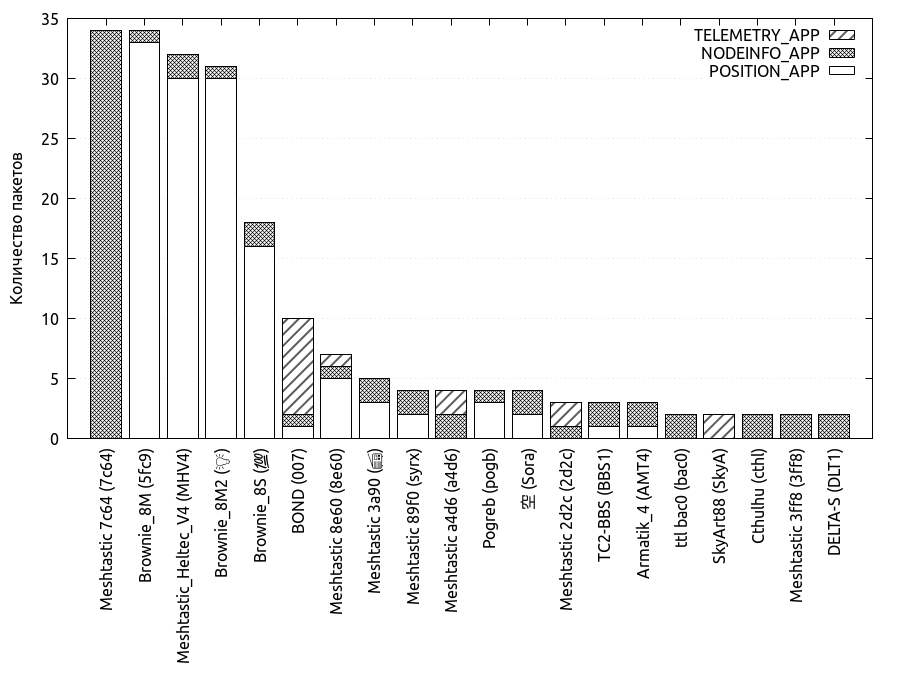
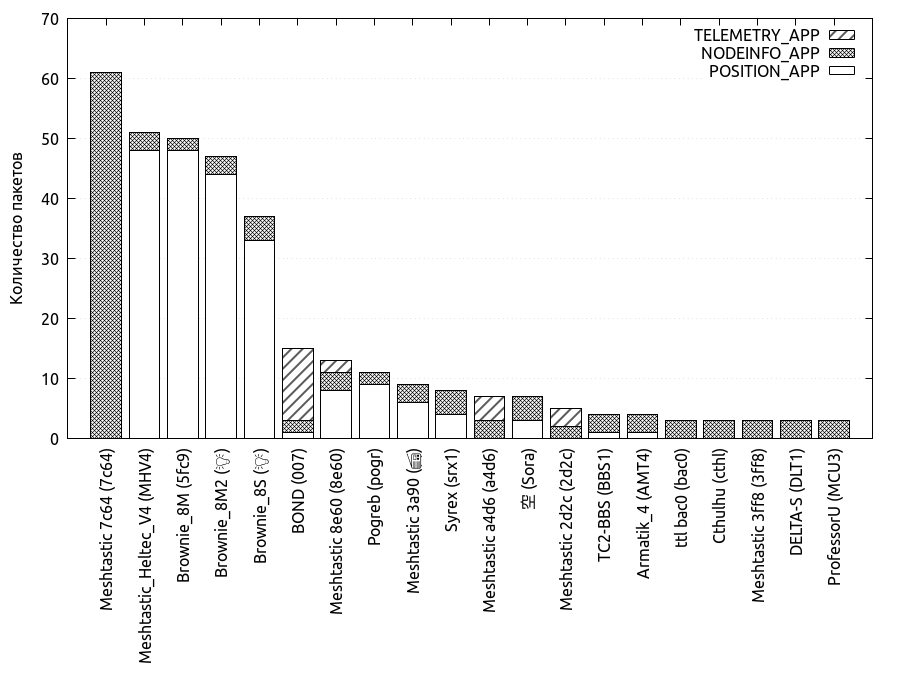
Update: 2026-05-10

diff --git a/spamers/2026-05-10/index.html b/spamers/2026-05-10/index.html
@@ -7,7 +7,7 @@
 <meta name="robots" content="index, follow">
 <title>2026-05-10 | dwr𝔣</title>
 <meta name="keywords" content="">
-<meta name="description" content="Услышано нод за сутки: 28">
+<meta name="description" content="Услышано нод за сутки: 29">
 <meta name="author" content="">
 <link rel="canonical" href="https://dwrf.ftp.sh/spamers/2026-05-10/">
 <link crossorigin="anonymous" href="/assets/css/stylesheet.6fa248c180ac4f9056a884e3b49e304390e0e4bc65ce5c291c0c637f6f2db58c.css" integrity="sha256-b6JIwYCsT5BWqITjtJ4wQ5Dg5LxlzlwpHAxjf28ttYw=" rel="preload stylesheet" as="style">
@@ -30,16 +30,16 @@
 </noscript><meta property="og:url" content="https://dwrf.ftp.sh/spamers/2026-05-10/">
   <meta property="og:site_name" content="dwr𝔣">
   <meta property="og:title" content="2026-05-10">
-  <meta property="og:description" content="Услышано нод за сутки: 28">
+  <meta property="og:description" content="Услышано нод за сутки: 29">
   <meta property="og:locale" content="ru_ru">
   <meta property="og:type" content="article">
     <meta property="article:section" content="spamers">
     <meta property="article:published_time" content="2026-05-10T00:00:00+00:00">
-    <meta property="article:modified_time" content="2026-05-10T05:55:03+03:00">
+    <meta property="article:modified_time" content="2026-05-10T09:31:41+03:00">
 
   <meta name="twitter:card" content="summary">
   <meta name="twitter:title" content="2026-05-10">
-  <meta name="twitter:description" content="Услышано нод за сутки: 28">
+  <meta name="twitter:description" content="Услышано нод за сутки: 29">
 
 
 <script type="application/ld+json">
@@ -68,15 +68,15 @@
   "@type": "BlogPosting",
   "headline": "2026-05-10",
   "name": "2026-05-10",
-  "description": "Услышано нод за сутки: 28",
+  "description": "Услышано нод за сутки: 29",
   "keywords": [
     
   ],
-  "articleBody": "\n# NodeName Position NodeInfo Telemetry 1 Meshtastic 7c64 (7c64) 0 34 0 2 Brownie_8M (5fc9) 33 1 0 3 Meshtastic_Heltec_V4 (MHV4) 30 2 0 4 Brownie_8M2 (💡) 30 1 0 5 Brownie_8S (💯) 16 2 0 6 BOND (007) 1 1 8 7 Meshtastic 8e60 (8e60) 5 1 1 8 Meshtastic 3a90 (📻) 3 2 0 9 Meshtastic 89f0 (syrx) 2 2 0 10 Meshtastic a4d6 (a4d6) 0 2 2 11 Pogreb (pogb) 3 1 0 12 空 (Sora) 2 2 0 13 Meshtastic 2d2c (2d2c) 0 1 2 14 TC2-BBS (BBS1) 1 2 0 15 Armatik_4 (AMT4) 1 2 0 16 ttl bac0 (bac0) 0 2 0 17 SkyArt88 (SkyA) 0 0 2 18 Cthulhu (cthl) 0 2 0 19 Meshtastic 3ff8 (3ff8) 0 2 0 20 DELTA-S (DLT1) 0 2 0 21 ProfessorU (MCU3) 0 2 0 22 Armatik_3 (AMT3) 0 2 0 23 Solarcore0 (Sun0) 0 2 0 24 Meshtastic be25 (be25) 0 2 0 25 BALABAN (BALA) 1 0 0 26 ANNUNAKI (ENKI) 1 0 0 27 Meshtastic 62e8 (62e8) 0 1 0 28 DELTA-P (DLT2) 0 1 0 ",
-  "wordCount" : "183",
+  "articleBody": "\n# NodeName Position NodeInfo Telemetry 1 Meshtastic 7c64 (7c64) 0 61 0 2 Meshtastic_Heltec_V4 (MHV4) 48 3 0 3 Brownie_8M (5fc9) 48 2 0 4 Brownie_8M2 (💡) 44 3 0 5 Brownie_8S (💡) 33 4 0 6 BOND (007) 1 2 12 7 Meshtastic 8e60 (8e60) 8 3 2 8 Pogreb (pogr) 9 2 0 9 Meshtastic 3a90 (📻) 6 3 0 10 Syrex (srx1) 4 4 0 11 Meshtastic a4d6 (a4d6) 0 3 4 12 空 (Sora) 3 4 0 13 Meshtastic 2d2c (2d2c) 0 2 3 14 TC2-BBS (BBS1) 1 3 0 15 Armatik_4 (AMT4) 1 3 0 16 ttl bac0 (bac0) 0 3 0 17 Cthulhu (cthl) 0 3 0 18 Meshtastic 3ff8 (3ff8) 0 3 0 19 DELTA-S (DLT1) 0 3 0 20 ProfessorU (MCU3) 0 3 0 21 Armatik_3 (AMT3) 0 3 0 22 SkyArt88 (SkyA) 0 0 2 23 Pennywise (ONO) 1 1 0 24 Meshtastic 62e8 (62e8) 0 2 0 25 jenya (ttl) 0 2 0 26 Solarcore0 (Sun0) 0 2 0 27 Meshtastic be25 (be25) 0 2 0 28 DELTA-P (DLT2) 0 2 0 29 BALABAN (BALA) 1 0 0 ",
+  "wordCount" : "188",
   "inLanguage": "en",
   "datePublished": "2026-05-10T00:00:00Z",
-  "dateModified": "2026-05-10T05:55:03.461517+03:00",
+  "dateModified": "2026-05-10T09:31:41.477787+03:00",
   "mainEntityOfPage": {
     "@type": "WebPage",
     "@id": "https://dwrf.ftp.sh/spamers/2026-05-10/"
@@ -135,196 +135,203 @@
           <td style="text-align: center">1</td>
           <td style="text-align: center">Meshtastic 7c64 (7c64)</td>
           <td style="text-align: center">0</td>
-          <td style="text-align: center">34</td>
+          <td style="text-align: center">61</td>
           <td style="text-align: center">0</td>
       </tr>
       <tr>
           <td style="text-align: center">2</td>
-          <td style="text-align: center">Brownie_8M (5fc9)</td>
-          <td style="text-align: center">33</td>
-          <td style="text-align: center">1</td>
+          <td style="text-align: center">Meshtastic_Heltec_V4 (MHV4)</td>
+          <td style="text-align: center">48</td>
+          <td style="text-align: center">3</td>
           <td style="text-align: center">0</td>
       </tr>
       <tr>
           <td style="text-align: center">3</td>
-          <td style="text-align: center">Meshtastic_Heltec_V4 (MHV4)</td>
-          <td style="text-align: center">30</td>
+          <td style="text-align: center">Brownie_8M (5fc9)</td>
+          <td style="text-align: center">48</td>
           <td style="text-align: center">2</td>
           <td style="text-align: center">0</td>
       </tr>
       <tr>
           <td style="text-align: center">4</td>
           <td style="text-align: center">Brownie_8M2 (💡)</td>
-          <td style="text-align: center">30</td>
-          <td style="text-align: center">1</td>
+          <td style="text-align: center">44</td>
+          <td style="text-align: center">3</td>
           <td style="text-align: center">0</td>
       </tr>
       <tr>
           <td style="text-align: center">5</td>
-          <td style="text-align: center">Brownie_8S (💯)</td>
-          <td style="text-align: center">16</td>
-          <td style="text-align: center">2</td>
+          <td style="text-align: center">Brownie_8S (💡)</td>
+          <td style="text-align: center">33</td>
+          <td style="text-align: center">4</td>
           <td style="text-align: center">0</td>
       </tr>
       <tr>
           <td style="text-align: center">6</td>
           <td style="text-align: center">BOND (007)</td>
           <td style="text-align: center">1</td>
-          <td style="text-align: center">1</td>
-          <td style="text-align: center">8</td>
+          <td style="text-align: center">2</td>
+          <td style="text-align: center">12</td>
       </tr>
       <tr>
           <td style="text-align: center">7</td>
           <td style="text-align: center">Meshtastic 8e60 (8e60)</td>
-          <td style="text-align: center">5</td>
-          <td style="text-align: center">1</td>
-          <td style="text-align: center">1</td>
+          <td style="text-align: center">8</td>
+          <td style="text-align: center">3</td>
+          <td style="text-align: center">2</td>
       </tr>
       <tr>
           <td style="text-align: center">8</td>
-          <td style="text-align: center">Meshtastic 3a90 (📻)</td>
-          <td style="text-align: center">3</td>
+          <td style="text-align: center">Pogreb (pogr)</td>
+          <td style="text-align: center">9</td>
           <td style="text-align: center">2</td>
           <td style="text-align: center">0</td>
       </tr>
       <tr>
           <td style="text-align: center">9</td>
-          <td style="text-align: center">Meshtastic 89f0 (syrx)</td>
-          <td style="text-align: center">2</td>
-          <td style="text-align: center">2</td>
+          <td style="text-align: center">Meshtastic 3a90 (📻)</td>
+          <td style="text-align: center">6</td>
+          <td style="text-align: center">3</td>
           <td style="text-align: center">0</td>
       </tr>
       <tr>
           <td style="text-align: center">10</td>
-          <td style="text-align: center">Meshtastic a4d6 (a4d6)</td>
+          <td style="text-align: center">Syrex (srx1)</td>
+          <td style="text-align: center">4</td>
+          <td style="text-align: center">4</td>
           <td style="text-align: center">0</td>
-          <td style="text-align: center">2</td>
-          <td style="text-align: center">2</td>
       </tr>
       <tr>
           <td style="text-align: center">11</td>
-          <td style="text-align: center">Pogreb (pogb)</td>
-          <td style="text-align: center">3</td>
-          <td style="text-align: center">1</td>
+          <td style="text-align: center">Meshtastic a4d6 (a4d6)</td>
           <td style="text-align: center">0</td>
+          <td style="text-align: center">3</td>
+          <td style="text-align: center">4</td>
       </tr>
       <tr>
           <td style="text-align: center">12</td>
           <td style="text-align: center">空 (Sora)</td>
-          <td style="text-align: center">2</td>
-          <td style="text-align: center">2</td>
+          <td style="text-align: center">3</td>
+          <td style="text-align: center">4</td>
           <td style="text-align: center">0</td>
       </tr>
       <tr>
           <td style="text-align: center">13</td>
           <td style="text-align: center">Meshtastic 2d2c (2d2c)</td>
           <td style="text-align: center">0</td>
-          <td style="text-align: center">1</td>
           <td style="text-align: center">2</td>
+          <td style="text-align: center">3</td>
       </tr>
       <tr>
           <td style="text-align: center">14</td>
           <td style="text-align: center">TC2-BBS (BBS1)</td>
           <td style="text-align: center">1</td>
-          <td style="text-align: center">2</td>
+          <td style="text-align: center">3</td>
           <td style="text-align: center">0</td>
       </tr>
       <tr>
           <td style="text-align: center">15</td>
           <td style="text-align: center">Armatik_4 (AMT4)</td>
           <td style="text-align: center">1</td>
-          <td style="text-align: center">2</td>
+          <td style="text-align: center">3</td>
           <td style="text-align: center">0</td>
       </tr>
       <tr>
           <td style="text-align: center">16</td>
           <td style="text-align: center">ttl bac0 (bac0)</td>
           <td style="text-align: center">0</td>
-          <td style="text-align: center">2</td>
+          <td style="text-align: center">3</td>
           <td style="text-align: center">0</td>
       </tr>
       <tr>
           <td style="text-align: center">17</td>
+          <td style="text-align: center">Cthulhu (cthl)</td>
+          <td style="text-align: center">0</td>
+          <td style="text-align: center">3</td>
+          <td style="text-align: center">0</td>
+      </tr>
+      <tr>
+          <td style="text-align: center">18</td>
+          <td style="text-align: center">Meshtastic 3ff8 (3ff8)</td>
+          <td style="text-align: center">0</td>
+          <td style="text-align: center">3</td>
+          <td style="text-align: center">0</td>
+      </tr>
+      <tr>
+          <td style="text-align: center">19</td>
+          <td style="text-align: center">DELTA-S (DLT1)</td>
+          <td style="text-align: center">0</td>
+          <td style="text-align: center">3</td>
+          <td style="text-align: center">0</td>
+      </tr>
+      <tr>
+          <td style="text-align: center">20</td>
+          <td style="text-align: center">ProfessorU (MCU3)</td>
+          <td style="text-align: center">0</td>
+          <td style="text-align: center">3</td>
+          <td style="text-align: center">0</td>
+      </tr>
+      <tr>
+          <td style="text-align: center">21</td>
+          <td style="text-align: center">Armatik_3 (AMT3)</td>
+          <td style="text-align: center">0</td>
+          <td style="text-align: center">3</td>
+          <td style="text-align: center">0</td>
+      </tr>
+      <tr>
+          <td style="text-align: center">22</td>
           <td style="text-align: center">SkyArt88 (SkyA)</td>
           <td style="text-align: center">0</td>
           <td style="text-align: center">0</td>
           <td style="text-align: center">2</td>
       </tr>
       <tr>
-          <td style="text-align: center">18</td>
-          <td style="text-align: center">Cthulhu (cthl)</td>
-          <td style="text-align: center">0</td>
-          <td style="text-align: center">2</td>
-          <td style="text-align: center">0</td>
-      </tr>
-      <tr>
-          <td style="text-align: center">19</td>
-          <td style="text-align: center">Meshtastic 3ff8 (3ff8)</td>
-          <td style="text-align: center">0</td>
-          <td style="text-align: center">2</td>
-          <td style="text-align: center">0</td>
-      </tr>
-      <tr>
-          <td style="text-align: center">20</td>
-          <td style="text-align: center">DELTA-S (DLT1)</td>
-          <td style="text-align: center">0</td>
-          <td style="text-align: center">2</td>
-          <td style="text-align: center">0</td>
-      </tr>
-      <tr>
-          <td style="text-align: center">21</td>
-          <td style="text-align: center">ProfessorU (MCU3)</td>
-          <td style="text-align: center">0</td>
-          <td style="text-align: center">2</td>
-          <td style="text-align: center">0</td>
-      </tr>
-      <tr>
-          <td style="text-align: center">22</td>
-          <td style="text-align: center">Armatik_3 (AMT3)</td>
-          <td style="text-align: center">0</td>
-          <td style="text-align: center">2</td>
-          <td style="text-align: center">0</td>
-      </tr>
-      <tr>
           <td style="text-align: center">23</td>
-          <td style="text-align: center">Solarcore0 (Sun0)</td>
-          <td style="text-align: center">0</td>
-          <td style="text-align: center">2</td>
+          <td style="text-align: center">Pennywise (ONO)</td>
+          <td style="text-align: center">1</td>
+          <td style="text-align: center">1</td>
           <td style="text-align: center">0</td>
       </tr>
       <tr>
           <td style="text-align: center">24</td>
-          <td style="text-align: center">Meshtastic be25 (be25)</td>
+          <td style="text-align: center">Meshtastic 62e8 (62e8)</td>
           <td style="text-align: center">0</td>
           <td style="text-align: center">2</td>
           <td style="text-align: center">0</td>
       </tr>
       <tr>
           <td style="text-align: center">25</td>
-          <td style="text-align: center">BALABAN (BALA)</td>
-          <td style="text-align: center">1</td>
+          <td style="text-align: center">jenya (ttl)</td>
           <td style="text-align: center">0</td>
+          <td style="text-align: center">2</td>
           <td style="text-align: center">0</td>
       </tr>
       <tr>
           <td style="text-align: center">26</td>
-          <td style="text-align: center">ANNUNAKI (ENKI)</td>
-          <td style="text-align: center">1</td>
+          <td style="text-align: center">Solarcore0 (Sun0)</td>
           <td style="text-align: center">0</td>
+          <td style="text-align: center">2</td>
           <td style="text-align: center">0</td>
       </tr>
       <tr>
           <td style="text-align: center">27</td>
-          <td style="text-align: center">Meshtastic 62e8 (62e8)</td>
+          <td style="text-align: center">Meshtastic be25 (be25)</td>
           <td style="text-align: center">0</td>
-          <td style="text-align: center">1</td>
+          <td style="text-align: center">2</td>
           <td style="text-align: center">0</td>
       </tr>
       <tr>
           <td style="text-align: center">28</td>
           <td style="text-align: center">DELTA-P (DLT2)</td>
           <td style="text-align: center">0</td>
+          <td style="text-align: center">2</td>
+          <td style="text-align: center">0</td>
+      </tr>
+      <tr>
+          <td style="text-align: center">29</td>
+          <td style="text-align: center">BALABAN (BALA)</td>
           <td style="text-align: center">1</td>
+          <td style="text-align: center">0</td>
           <td style="text-align: center">0</td>
       </tr>
   </tbody>

diff --git a/index.html b/index.html
@@ -74,7 +74,7 @@
     </h2>
   </header>
   <div class="entry-content">
-    <p>Услышано нод за сутки: 28</p>
+    <p>Услышано нод за сутки: 29</p>
   </div>
   <footer class="entry-footer"><span title='2026-05-10 00:00:00 +0000 UTC'>May 10, 2026</span></footer>
   <a class="entry-link" aria-label="post link to 2026-05-10" href="https://dwrf.ftp.sh/spamers/2026-05-10/"></a>

diff --git a/spamers/index.html b/spamers/index.html
@@ -81,7 +81,7 @@
     </h2>
   </header>
   <div class="entry-content">
-    <p>Услышано нод за сутки: 28</p>
+    <p>Услышано нод за сутки: 29</p>
   </div>
   <footer class="entry-footer"><span title='2026-05-10 00:00:00 +0000 UTC'>May 10, 2026</span></footer>
   <a class="entry-link" aria-label="post link to 2026-05-10" href="https://dwrf.ftp.sh/spamers/2026-05-10/"></a>
